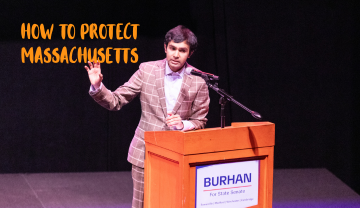
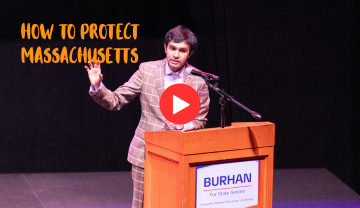
legalese

Changed region(s): [[0.4278, 0.375, 0.5806, 0.6058]]

diff --git a/project/site/issues.jsx b/project/site/issues.jsx
@@ -1,7 +1,6 @@
 // ============================================================
 // ISSUES PAGE — "What Burhan will deliver"
-// 6 issue cards, collapsed by default. Interaction mode is a
-// Tweak: Accordion (one open) / Inline (open many) / Modal.
+// 6 issue cards; clicking opens a modal.
 // ============================================================
 const { useState: useStateI } = React;
 
@@ -73,27 +72,11 @@ const ISSUES = [
   },
 ];
 
-function TurbineGraphic() {
-  return (
-    <svg viewBox="0 0 120 120" width="84" height="84" fill="none" stroke="#fff" strokeWidth="3" aria-hidden="true" style={{ opacity: .92 }}>
-      <circle cx="60" cy="52" r="6" fill="#FF9600" stroke="none" />
-      <path d="M60 52 L60 14 M60 52 L93 71 M60 52 L27 71" strokeLinecap="round" strokeWidth="7" stroke="#fff" />
-      <path d="M60 58 L60 106" strokeLinecap="round" />
-    </svg>
-  );
-}
 
 // collapsed thumbnail (video or climate still)
 function IssueThumb({ it }) {
   if (it.climate) {
-    return (
-      <div className="athumb" style={{ background: "linear-gradient(135deg,#0a6b4f,#0a2a6e)" }}>
-        <div style={{ position: "absolute", inset: 0, display: "flex", flexDirection: "column", alignItems: "center", justifyContent: "center", gap: 8 }}>
-          <TurbineGraphic />
-          <span style={{ fontFamily: "var(--font-heading)", fontWeight: 700, fontSize: 13, letterSpacing: ".1em", color: "#fff", textTransform: "uppercase" }}>Built in Massachusetts</span>
-        </div>
-      </div>
-    );
+    return <div className="athumb" style={{ backgroundImage: "url(project/site/assets/climate_thumb.png)" }} />;
   }
   return <div className="athumb" style={it.thumb ? { backgroundImage: `url(${it.thumb})` } : undefined} />;
 }
@@ -126,15 +109,10 @@ function IssueBodyContent({ it, modal }) {
     <>
       <div className="atext">
         {it.body.map((p, i) => <p key={i}>{p}</p>)}
-        <a className="atoggle" href="#plan" style={{ marginTop: 4, textDecoration: "none" }}>
-          Read the full plan <ArrowIcon color="#FF9600" className="ar" />
-        </a>
       </div>
       <div>
         {it.climate ? (
-          <div className="abody-video" style={{ aspectRatio: "9/12", background: "linear-gradient(135deg,#0a6b4f,#0a2a6e)", display: "flex", alignItems: "center", justifyContent: "center", boxShadow: "10px 10px 0 0 var(--red)" }}>
-            <TurbineGraphic />
-          </div>
+          <img className="abody-video" src="project/site/assets/climate_thumb.png" alt="Climate" style={{ objectFit: "cover", boxShadow: "10px 10px 0 0 var(--red)" }} />
         ) : it.instagram ? (
           <InstagramEmbed url={it.instagram} />
         ) : (
@@ -145,31 +123,21 @@ function IssueBodyContent({ it, modal }) {
   );
 }
 
-function IssueCard({ it, mode, open, onToggle }) {
-  const isModal = mode === "Modal";
+function IssueCard({ it, onToggle }) {
   return (
-    <div className={`acard${open && !isModal ? " open" : ""}${it.climate ? " climate" : ""}`}>
+    <div className={`acard${it.climate ? " climate" : ""}`}>
       <div className="ahead" onClick={onToggle} role="button" tabIndex={0}
            onKeyDown={(e) => { if (e.key === "Enter" || e.key === " ") { e.preventDefault(); onToggle(); } }}>
         <div className="amid">
           <h3 className="atitle">{it.title}</h3>
           <p className="ateaser">{it.teaser}</p>
           <span className="atoggle">
-            {isModal ? "Read the full story" : (open ? "Close" : "Read the full story")}
-            {isModal ? <ArrowIcon color="#FF9600" className="ar" /> : <ChevronIcon color="#FF9600" />}
+            See the Plan
+            <ArrowIcon color="#FF9600" className="ar" />
           </span>
         </div>
         <IssueThumb it={it} />
       </div>
-      {!isModal && (
-        <div className="abody">
-          <div className="abody-inner">
-            <div className="abody-pad">
-              <IssueBodyContent it={it} />
-            </div>
-          </div>
-        </div>
-      )}
     </div>
   );
 }
@@ -201,27 +169,16 @@ function IssueModal({ it, onClose }) {
   );
 }
 
-function IssuesList({ mode, startOpen }) {
-  // accordion: single open index; inline: set of open indices; modal: open id
-  const [openOne, setOpenOne] = useStateI(startOpen && mode !== "Modal" ? 0 : null);
-  const [openMany, setOpenMany] = useStateI(startOpen && mode === "Inline" ? { 0: true } : {});
+function IssuesList() {
   const [modalIt, setModalIt] = useStateI(null);
-
-  const toggle = (it, i) => {
-    if (mode === "Modal") { setModalIt(it); return; }
-    if (mode === "Accordion") { setOpenOne((c) => (c === i ? null : i)); return; }
-    setOpenMany((s) => ({ ...s, [i]: !s[i] }));
-  };
-  const isOpen = (i) => mode === "Accordion" ? openOne === i : !!openMany[i];
-
   return (
     <>
       <div className="acc">
-        {ISSUES.map((it, i) => (
-          <IssueCard key={it.n} it={it} mode={mode} open={isOpen(i)} onToggle={() => toggle(it, i)} />
+        {ISSUES.map((it) => (
+          <IssueCard key={it.n} it={it} onToggle={() => setModalIt(it)} />
         ))}
       </div>
-      {mode === "Modal" && modalIt && <IssueModal it={modalIt} onClose={() => setModalIt(null)} />}
+      {modalIt && <IssueModal it={modalIt} onClose={() => setModalIt(null)} />}
     </>
   );
 }

diff --git a/project/site/site.css b/project/site/site.css
@@ -55,6 +55,19 @@ a { color: inherit; }
 .hdr .navlinks a { font-family: var(--font-heading); font-weight: 400; font-size: 16px; letter-spacing: .03em; text-transform: uppercase; color: #fff; text-decoration: none; opacity: .9; padding-bottom: 3px; border-bottom: 2px solid transparent; }
 .hdr .navlinks a:hover { opacity: 1; }
 .hdr .navlinks a.active { opacity: 1; border-bottom-color: var(--orange); }
+.hdr .hamburger { display: none; background: none; border: none; cursor: pointer; padding: 6px; margin-right: -6px; }
+.hdr .hamburger span { display: block; width: 24px; height: 2px; background: #fff; border-radius: 2px; transition: transform .2s, opacity .2s; }
+.hdr .hamburger span + span { margin-top: 5px; }
+.hdr.menu-open .hamburger span:nth-child(1) { transform: translateY(7px) rotate(45deg); }
+.hdr.menu-open .hamburger span:nth-child(2) { opacity: 0; }
+.hdr.menu-open .hamburger span:nth-child(3) { transform: translateY(-7px) rotate(-45deg); }
+.mobile-menu { display: none; position: fixed; top: 78px; left: 0; right: 0; background: #003DA5; z-index: 49; padding: 20px 20px 28px; flex-direction: column; gap: 0; box-shadow: 0 8px 24px rgba(0,0,0,.25); }
+.mobile-menu.open { display: flex; }
+.mobile-menu a { font-family: var(--font-heading); font-weight: 400; font-size: 18px; letter-spacing: .03em; text-transform: uppercase; color: #fff; text-decoration: none; opacity: .9; padding: 14px 0; border-bottom: 1px solid rgba(255,255,255,.15); }
+.mobile-menu a:last-child { border-bottom: none; }
+.mobile-menu a:hover { opacity: 1; }
+.mobile-menu a.active { opacity: 1; color: var(--orange); }
+.mobile-menu .btn { margin-top: 20px; align-self: flex-start; font-size: 17px; padding: 9px 18px; }
 
 /* ============================================================
    SECTION FRAME / SHARED TYPE BLOCKS
@@ -212,14 +225,7 @@ a { color: inherit; }
 .acard .atitle { font-family: var(--font-heading); font-weight: 700; font-size: 40px; line-height: 1.0; letter-spacing: .02em; color: var(--blue); text-transform: uppercase; margin: 0; }
 .acard .ateaser { font-family: var(--font-body); font-size: 19px; line-height: 1.4; color: var(--blue); margin: 0; max-width: 48ch; }
 .acard .atoggle { display: inline-flex; align-items: center; gap: 8px; font-family: var(--font-heading); font-weight: 700; font-size: 15px; letter-spacing: .06em; text-transform: uppercase; color: var(--orange); margin-top: 6px; }
-.acard .atoggle .chev { width: 16px; height: 16px; transition: transform .2s ease; }
-.acard.open .atoggle .chev { transform: rotate(180deg); }
 .acard .athumb { position: relative; overflow: hidden; min-height: 208px; background: var(--line-grey) center/cover no-repeat; }
-.acard .abody { display: grid; grid-template-rows: 0fr; }
-.acard.open .abody { grid-template-rows: 1fr; }
-.acard .abody-inner { overflow: hidden; }
-.acard .abody-pad { border-top: 1px solid var(--line-grey); display: grid; grid-template-columns: 1fr 360px; gap: 40px; padding: 32px 42px 38px; }
-.acard .abody-pad .atext p { font-family: var(--font-body); font-size: 18px; line-height: 1.55; color: var(--blue); margin: 0 0 16px; }
 .acard .abody-video { width: 100%; aspect-ratio: 9/12; box-shadow: 10px 10px 0 0 var(--red); align-self: start; }
 .acard .ig-embed-wrap { aspect-ratio: unset; box-shadow: 10px 10px 0 0 var(--red); }
 .acard.climate .athumb { background: linear-gradient(135deg, #0a4d8c, #0a2a6e); }
@@ -357,6 +363,8 @@ a { color: inherit; }
   .section, .page-hero, .fcta, .vol-wrap, .home-hero, .stats-band, .issues-intro-video { padding-left: 24px; padding-right: 24px; }
   .hdr { padding: 0 20px; }
   .hdr .navlinks { display: none; }
+  .hdr nav .btn { display: none; }
+  .hdr .hamburger { display: flex; flex-direction: column; }
   .home-hero, .thirty, .feature, .vol-wrap, .endorse .egrid, .priorities .pgrid, .ii-card, .tl-with-image, .ihv-grid { grid-template-columns: 1fr; }
   .ii-video { min-height: 200px; }
   .home-hero h1 { font-size: 60px; }
@@ -367,8 +375,6 @@ a { color: inherit; }
   /* issues card → stack */
   .acard .ahead { grid-template-columns: 1fr; }
   .acard .athumb { display: none; }
-  .acard .abody-pad { grid-template-columns: 1fr; padding: 24px; }
-  .acard .abody-video { max-width: 280px; }
   /* timeline → force vertical on mobile (both orientations) */
   .timeline { padding: 16px 4px 8px; }
   .timeline .tl-line { display: none; }

diff --git a/project/site/shared.jsx b/project/site/shared.jsx
@@ -64,23 +64,53 @@ function Logo() {
 
 // ---- site header ----
 function SiteHeader({ active }) {
+  const [menuOpen, setMenuOpen] = useState(false);
+  const hdrRef = useRef(null);
   const links = [
-    { label: "Meet Burhan", href: "index.html" },
+    { label: "Meet Burhan", href: "receipts.html" },
     { label: "Issues", href: "issues.html" },
     { label: "Volunteer", href: "volunteer.html" },
   ];
+
+  useEffect(() => {
+    function handleClick(e) {
+      if (hdrRef.current && !hdrRef.current.contains(e.target)) {
+        setMenuOpen(false);
+      }
+    }
+    document.addEventListener("click", handleClick);
+    return () => document.removeEventListener("click", handleClick);
+  }, []);
+
   return (
-    <header className="hdr">
-      <Logo />
-      <nav>
-        <div className="navlinks">
-          {links.map((l) => (
-            <a key={l.label} href={l.href} className={active === l.label ? "active" : ""}>{l.label}</a>
-          ))}
-        </div>
-        <Button variant="orange" href={ACTBLUE} target="_blank" style={{ fontSize: 17, padding: "9px 18px" }}>Donate</Button>
-      </nav>
-    </header>
+    <>
+      <header className={"hdr" + (menuOpen ? " menu-open" : "")} ref={hdrRef}>
+        <Logo />
+        <nav>
+          <div className="navlinks">
+            {links.map((l) => (
+              <a key={l.label} href={l.href} className={active === l.label ? "active" : ""}>{l.label}</a>
+            ))}
+          </div>
+          <Button variant="orange" href={ACTBLUE} target="_blank" style={{ fontSize: 17, padding: "9px 18px" }}>Donate</Button>
+          <button
+            className="hamburger"
+            aria-label="Open menu"
+            aria-expanded={menuOpen}
+            aria-controls="mobile-menu"
+            onClick={() => setMenuOpen(o => !o)}
+          >
+            <span /><span /><span />
+          </button>
+        </nav>
+      </header>
+      <div className={"mobile-menu" + (menuOpen ? " open" : "")} id="mobile-menu" role="dialog" aria-label="Navigation menu">
+        {links.map((l) => (
+          <a key={l.label} href={l.href} className={active === l.label ? "active" : ""}>{l.label}</a>
+        ))}
+        <a className="btn btn-orange" href={ACTBLUE} target="_blank" rel="noopener noreferrer">Donate</a>
+      </div>
+    </>
   );
 }
 

diff --git a/index.html b/index.html
@@ -12,7 +12,7 @@
 <body>
 <div class="site">
 
-<header class="hdr">
+<header class="hdr" id="site-hdr">
   <a class="logo" href="index.html">
     <span class="word">BURHAN</span>
     <span class="tag">2ND MIDDLESEX · STATE SENATE</span>
@@ -24,8 +24,36 @@
       <a href="volunteer.html">Volunteer</a>
     </div>
     <a class="btn btn-orange" href="https://secure.actblue.com/donate/burhan2026" target="_blank" rel="noopener noreferrer" style="font-size:17px;padding:9px 18px">Donate</a>
+    <button class="hamburger" id="hamburger-btn" aria-label="Open menu" aria-expanded="false" aria-controls="mobile-menu">
+      <span></span><span></span><span></span>
+    </button>
   </nav>
 </header>
+<div class="mobile-menu" id="mobile-menu" role="dialog" aria-label="Navigation menu">
+  <a href="receipts.html">Meet Burhan</a>
+  <a href="issues.html">Issues</a>
+  <a href="volunteer.html">Volunteer</a>
+  <a class="btn btn-orange" href="https://secure.actblue.com/donate/burhan2026" target="_blank" rel="noopener noreferrer">Donate</a>
+</div>
+<script>
+(function() {
+  var btn = document.getElementById('hamburger-btn');
+  var menu = document.getElementById('mobile-menu');
+  var hdr = document.getElementById('site-hdr');
+  btn.addEventListener('click', function() {
+    var open = menu.classList.toggle('open');
+    hdr.classList.toggle('menu-open', open);
+    btn.setAttribute('aria-expanded', open);
+  });
+  document.addEventListener('click', function(e) {
+    if (!hdr.contains(e.target) && !menu.contains(e.target)) {
+      menu.classList.remove('open');
+      hdr.classList.remove('menu-open');
+      btn.setAttribute('aria-expanded', 'false');
+    }
+  });
+})();
+</script>
 
 <!-- HERO -->
 <section class="home-hero motif-bg">

diff --git a/issues.html b/issues.html
@@ -19,9 +19,7 @@
 
 <script type="text/babel">
 const ISSUES_DEFAULTS = /*EDITMODE-BEGIN*/{
-  "top": "Hero video",
-  "mode": "Modal",
-  "startOpen": true
+  "top": "Hero video"
 }/*EDITMODE-END*/;
 
 // The top of the page, in three directions (compare via the "Top section" tweak):
@@ -90,7 +88,7 @@ function IssuesApp() {
       <section className="section">
         <Reveal style={{ display: "flex", flexDirection: "column", gap: 28 }}>
           <BoxedHeader>Tap to see the plan</BoxedHeader>
-          <IssuesList key={`${t.mode}-${t.startOpen}`} mode={t.mode} startOpen={t.startOpen} />
+          <IssuesList />
         </Reveal>
       </section>
 
@@ -101,12 +99,6 @@ function IssuesApp() {
         <TweakRadio label="Header layout" value={t.top}
           options={["Overlap", "Stacked", "Hero video"]}
           onChange={(v) => setTweak("top", v)} />
-        <TweakSection label="Issue cards" />
-        <TweakRadio label="Interaction" value={t.mode}
-          options={["Accordion", "Inline", "Modal"]}
-          onChange={(v) => setTweak("mode", v)} />
-        <TweakToggle label="Start with first issue open" value={t.startOpen}
-          onChange={(v) => setTweak("startOpen", v)} />
       </TweaksPanel>
     </div>
   );

diff --git a/project/site/volunteer.jsx b/project/site/volunteer.jsx
@@ -134,6 +134,7 @@ function VolForm() {
       <Button variant="orange" type="submit" className="vsubmit" arrow arrowColor="#003DA5" disabled={submitting}>
         {submitting ? "Sending…" : "Count me in"}
       </Button>
+      <p style={{ fontSize: 11, lineHeight: 1.5, color: "var(--blue)", opacity: .55, margin: "14px 0 0" }}>By submitting your cell phone number, you consent to receive periodic updates from The Azeem Campaign, including by automated text message. Messages include donation asks. Messaging frequency varies and Msg &amp; Data rates may apply. Text HELP for help, STOP to end. Terms &amp; Privacy policy.</p>
     </form>
   );
 }
